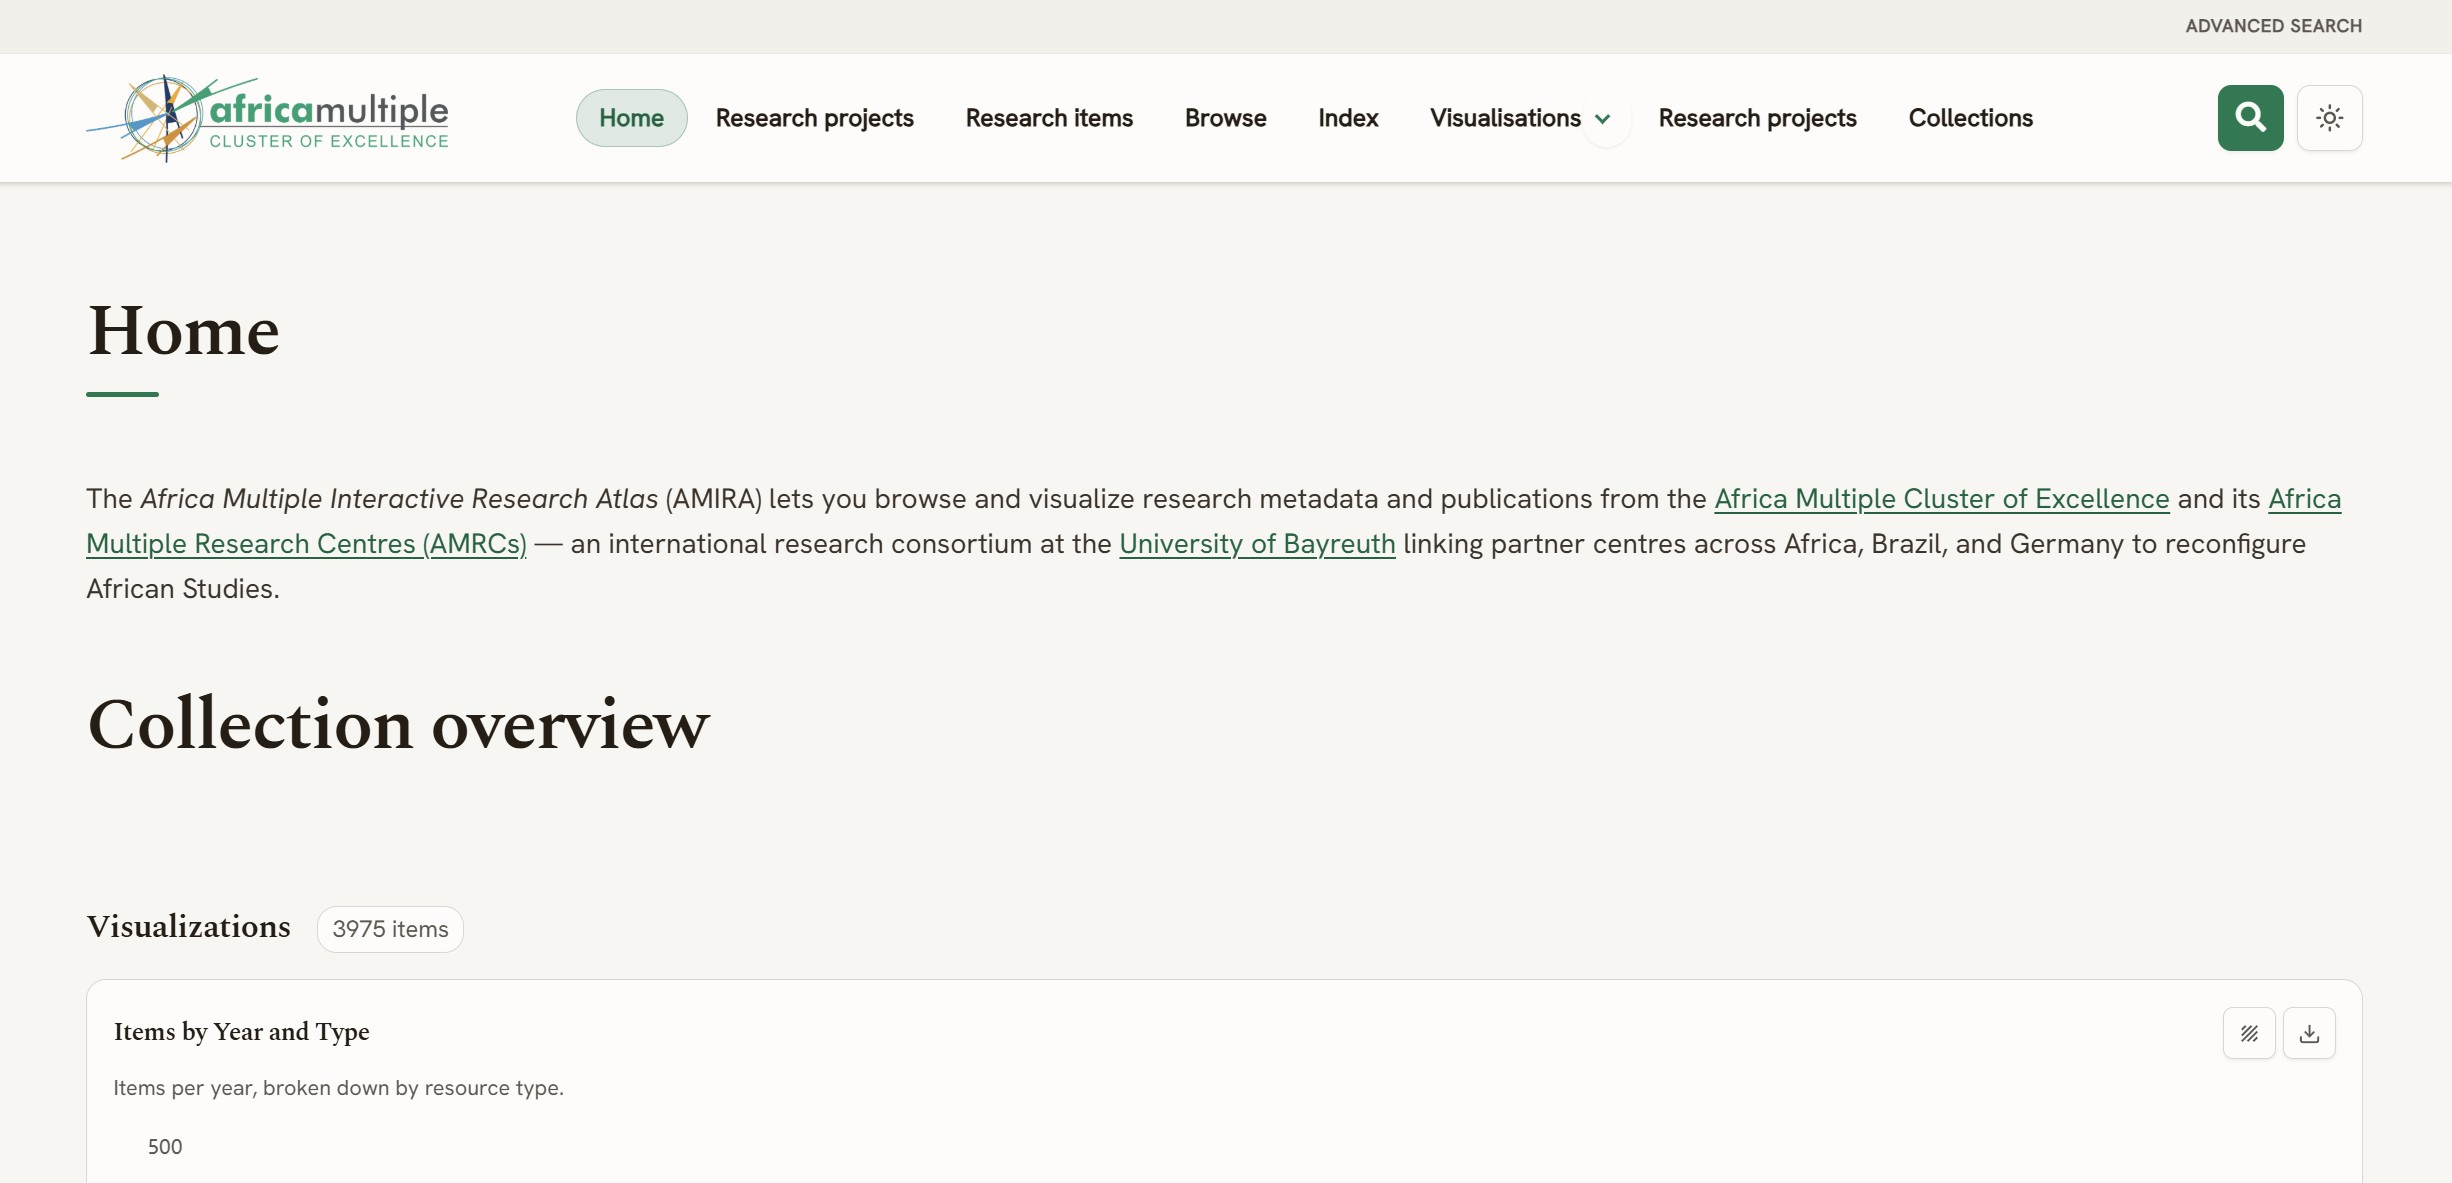
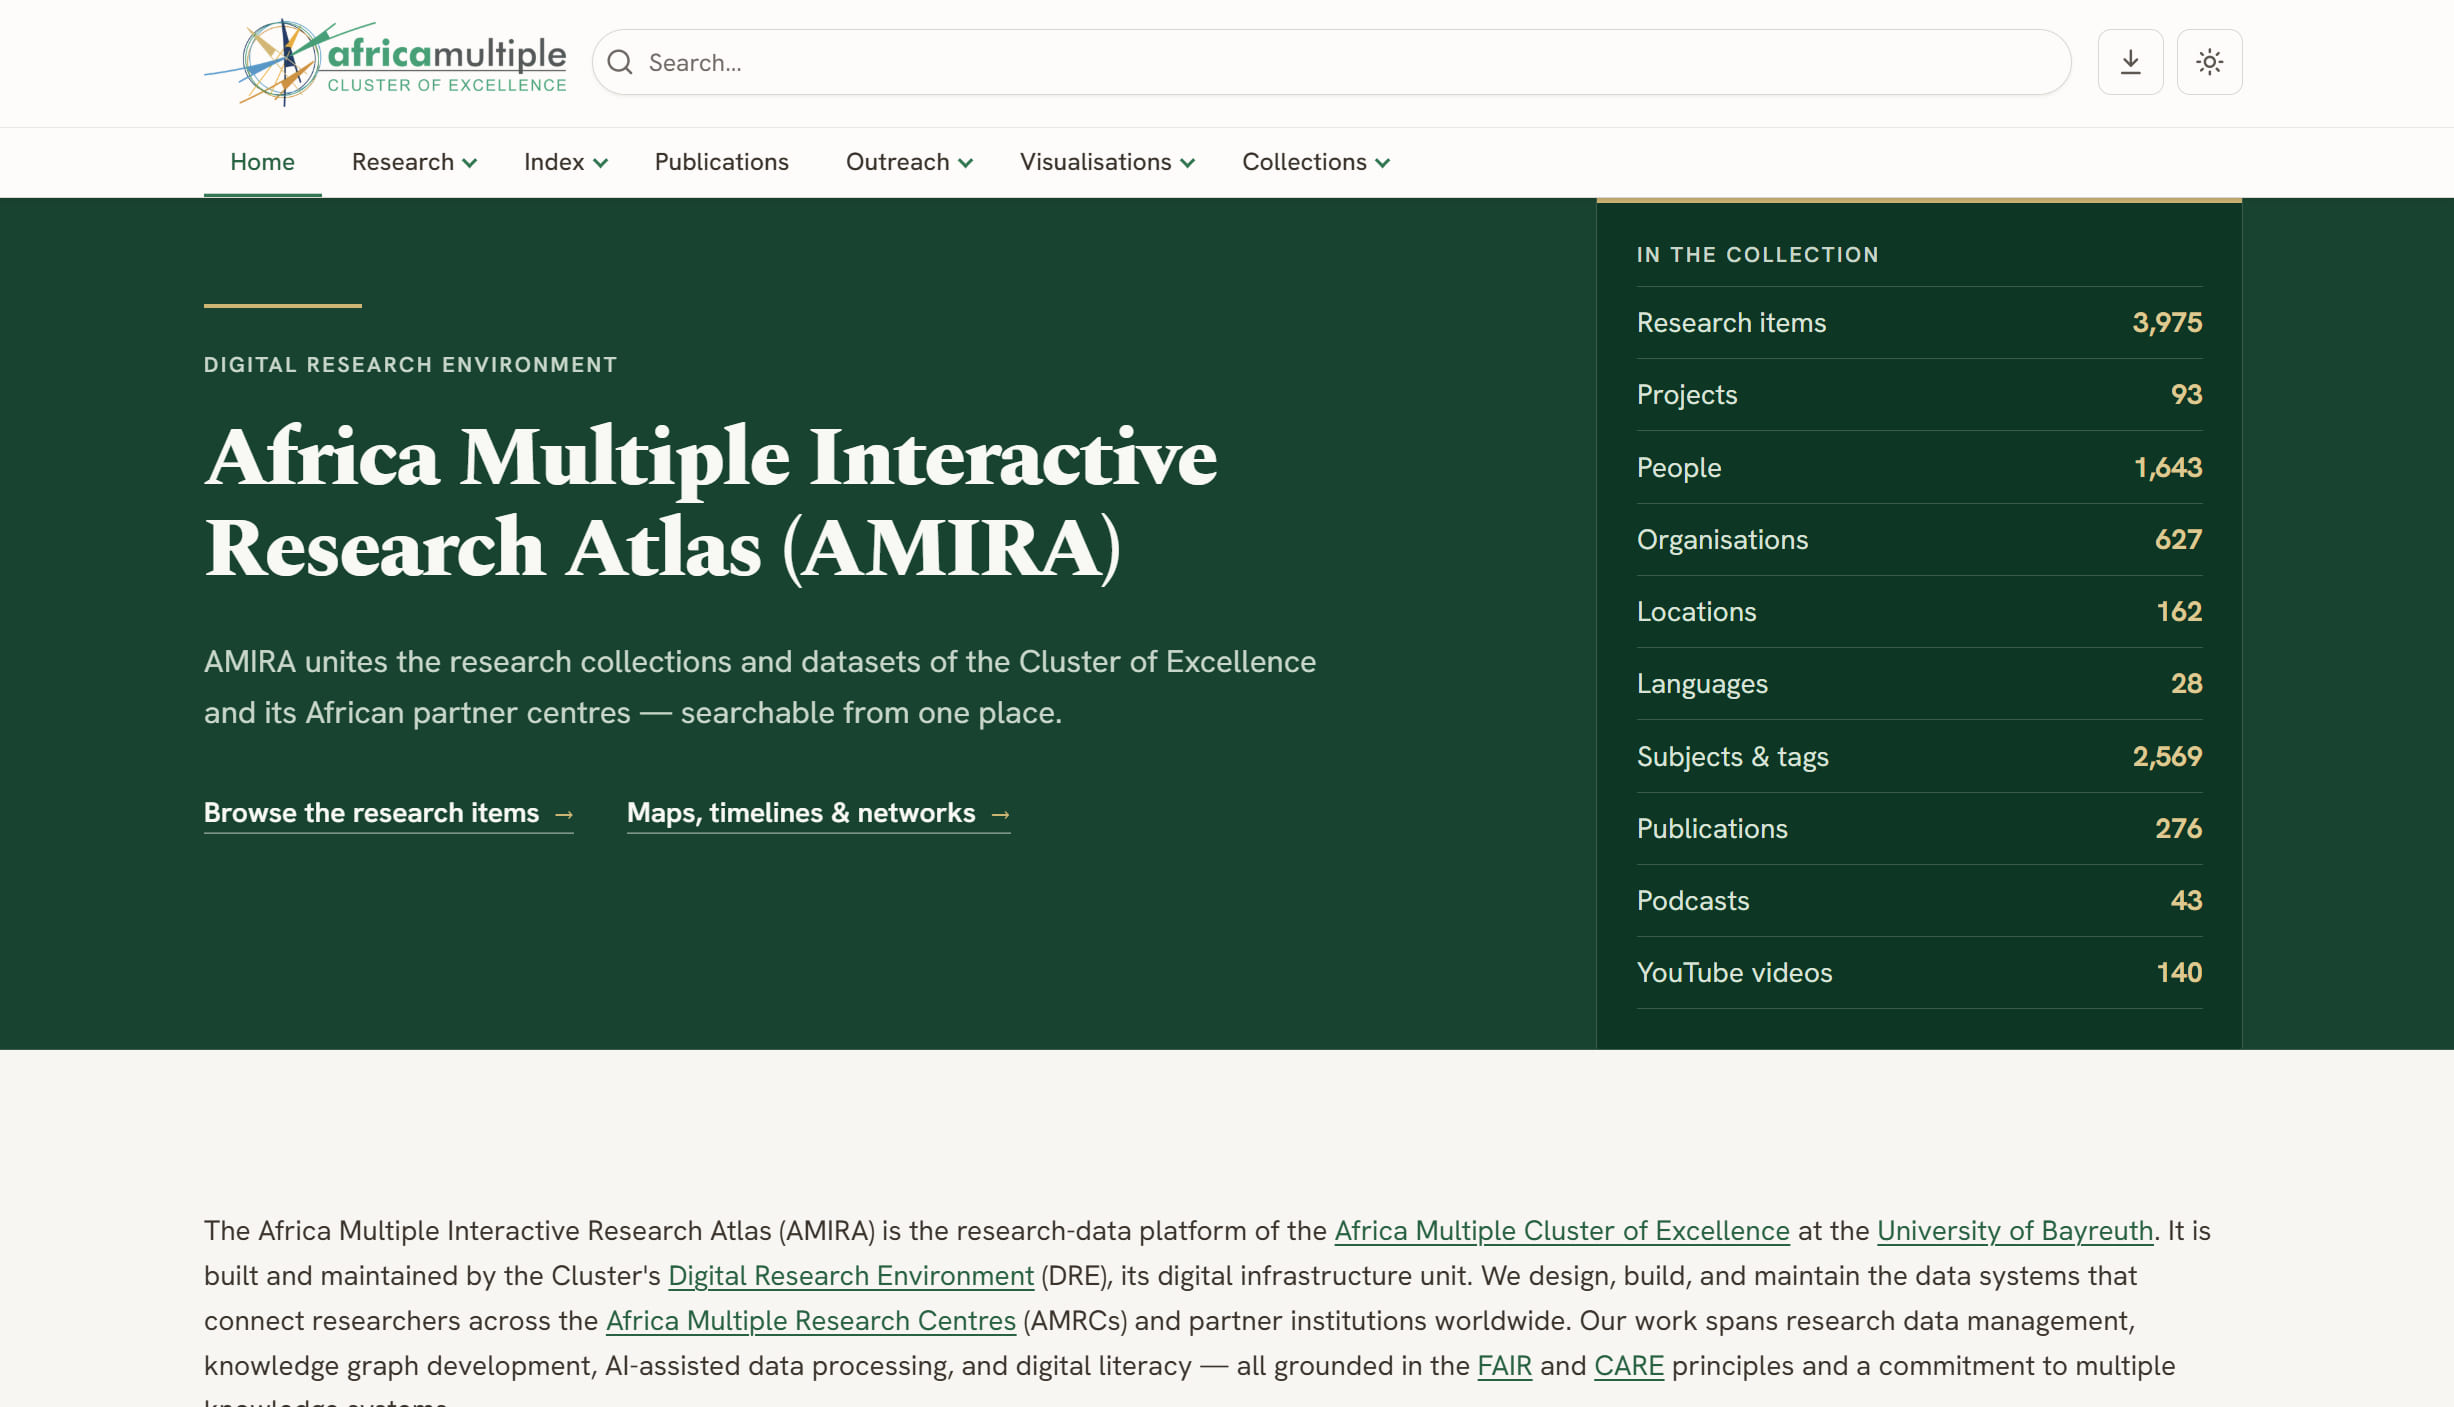
Repository metadata: a composer manifest, a social preview, a current thumbnail
composer.json carried four keys. It now has the keywords, homepage, authors and
support links Composer and Packagist read, which is what a `type: omeka-s-theme`
package is for.

theme.jpg was captured at v2.0.3 on 2 June and shows a plain white home page
with no masthead at all — no gold flag, no deep plate, no catalogue column. It
is the picture Omeka shows an admin choosing a theme, and it had missed the
entire v2.22-v2.25 masthead work. Replaced with a current capture, cropped by
13px to remove the browser's scrollbar gutter (a flat #fcfcfc strip running the
full height regardless of what was behind it) and encoded without chroma
subsampling, which cream type and gold numerals on a saturated ground need.

.github/social-preview.png is the Open Graph card, to be uploaded under Settings
-> General -> Social preview. It is the masthead rather than a picture of it:
the same body[data-brand="bold"] plate tokens, the theme's own Spectral and
Hanken Grotesk faces, the brand flag, the sunken catalogue column, and the
lockup on the light plaque the footer already uses for full-colour marks over a
forest band. The source .html is checked in beside it; both are under .github/
and so are export-ignored from the release package.

Verified by re-rendering from the checked-in HTML at the checked-in paths and
comparing to the checked-in PNG: 1.7% of subpixels differ, all on glyph edges.

diff --git a/.github/social-preview.html b/.github/social-preview.html
@@ -1,0 +1,195 @@
+<!doctype html>
+<html lang="en">
+<head>
+<meta charset="utf-8">
+<title>DRE-theme social preview</title>
+<!--
+  Source for .github/social-preview.png — the repository's Open Graph card
+  (GitHub → Settings → General → Social preview, 1280×640).
+
+  It is the masthead: the same "bold" plate tokens from
+  asset/sass/abstracts/variables/_colors.scss, the theme's own Spectral and
+  Hanken Grotesk faces, the brand flag, the sunken catalogue column, and the
+  lockup on the light plaque the footer uses for marks over a forest band.
+  Restate a token here only if the theme changed it.
+
+  To re-render, from the repository root:
+
+    npx serve . -l 8931          # or: python -m http.server 8931
+    npx playwright screenshot       --viewport-size=1280,640 --device-scale-factor=2 --wait-for-timeout=2000       http://127.0.0.1:8931/.github/social-preview.html raw.png
+    npx sharp-cli -i raw.png -o .github/social-preview.png resize 1280 640
+
+  The catalogue column states support ranges (Omeka S, PHP) — check them against
+  config/theme.ini and .github/workflows/ci.yml before regenerating.
+-->
+<style>
+  @font-face { font-family: "Spectral"; src: url("../asset/fonts/spectral-latin-800-normal.woff2") format("woff2"); font-weight: 800; font-style: normal; font-display: block; }
+  @font-face { font-family: "Hanken Grotesk"; src: url("../asset/fonts/hanken-grotesk-latin-400-normal.woff2") format("woff2"); font-weight: 400; font-style: normal; font-display: block; }
+  @font-face { font-family: "Hanken Grotesk"; src: url("../asset/fonts/hanken-grotesk-latin-600-normal.woff2") format("woff2"); font-weight: 600; font-style: normal; font-display: block; }
+  @font-face { font-family: "Hanken Grotesk"; src: url("../asset/fonts/hanken-grotesk-latin-700-normal.woff2") format("woff2"); font-weight: 700; font-style: normal; font-display: block; }
+
+  /* The masthead's "bold" plate, token for token — see
+     asset/sass/abstracts/variables/_colors.scss, body[data-brand="bold"]. */
+  :root {
+    --masthead-bg:       oklch(34% 0.075 165);
+    --masthead-ink:      oklch(98% 0.008 120);
+    --masthead-ink-soft: oklch(86% 0.030 150);
+    --masthead-rule:     oklch(78% 0.10 88);
+    --masthead-hair:     oklch(44% 0.055 165);
+    --masthead-sunken:   oklch(29.5% 0.07 165);
+    --numeral:           oklch(84% 0.085 88);
+    --entry-label:       color-mix(in oklab, var(--masthead-ink) 35%, var(--masthead-ink-soft));
+    /* The system's one deliberately mode-independent ground — the footer puts
+       the full-colour institutional marks on it so they stay legible over the
+       forest band. Same problem here, same answer. */
+    --plaque-bg:         oklch(99% 0.004 95);
+    --border-light:      oklch(93% 0.007 85);
+  }
+
+  * { box-sizing: border-box; }
+  html, body { margin: 0; padding: 0; }
+
+  body {
+    width: 1280px;
+    height: 640px;
+    overflow: hidden;
+    background-color: var(--masthead-bg);
+    font-family: "Hanken Grotesk", system-ui, sans-serif;
+    -webkit-font-smoothing: antialiased;
+  }
+
+  .plate {
+    width: 1280px;
+    height: 640px;
+    display: flex;
+    flex-direction: column;
+    padding: 56px 72px 44px;
+  }
+
+  .masthead { flex: 1; display: flex; align-items: flex-start; gap: 72px; min-height: 0; }
+
+  .headline { flex: 1; min-width: 0; }
+
+  /* The brand flag — a short 3px rule that opens the masthead. */
+  .flag { width: 96px; height: 3px; background-color: var(--masthead-rule); }
+
+  .eyebrow {
+    margin: 28px 0 0;
+    font-size: 15px;
+    font-weight: 600;
+    letter-spacing: 0.12em;
+    text-transform: uppercase;
+    color: var(--masthead-ink-soft);
+  }
+
+  .title {
+    margin: 20px 0 0;
+    font-family: "Spectral", Georgia, serif;
+    font-weight: 800;
+    font-size: 88px;
+    line-height: 1.08;
+    letter-spacing: -0.02em;
+    color: var(--masthead-ink);
+  }
+
+  .lede {
+    margin: 30px 0 0;
+    max-width: 648px;
+    font-size: 24px;
+    line-height: 1.55;
+    color: var(--masthead-ink-soft);
+  }
+
+  .colophon {
+    flex: none;
+    display: flex;
+    align-items: center;
+    justify-content: space-between;
+    gap: 40px;
+    margin-top: 44px;
+    padding-top: 26px;
+    border-top: 1px solid var(--masthead-hair);
+  }
+  .plaque {
+    display: inline-flex;
+    align-items: center;
+    justify-content: center;
+    padding: 12px 18px;
+    background-color: var(--plaque-bg);
+    border: 1px solid var(--border-light);
+    border-radius: 8px;
+  }
+  .plaque img { height: 44px; width: auto; display: block; }
+  .repo {
+    font-size: 18px;
+    font-weight: 600;
+    letter-spacing: 0.01em;
+    color: var(--masthead-ink-soft);
+  }
+
+  /* The catalogue column: a sunken panel, one step DOWN from the band. */
+  .catalogue {
+    flex: none;
+    width: 372px;
+    background-color: var(--masthead-sunken);
+    border-radius: 12px;
+    padding: 32px 30px 34px;
+  }
+
+  .catalogue h2 {
+    margin: 0 0 14px;
+    font-size: 13px;
+    font-weight: 600;
+    letter-spacing: 0.12em;
+    text-transform: uppercase;
+    color: var(--masthead-ink-soft);
+  }
+
+  .entry {
+    display: flex;
+    justify-content: space-between;
+    align-items: baseline;
+    gap: 16px;
+    padding: 12px 0;
+    border-top: 1px solid var(--masthead-hair);
+  }
+  .entry:last-child { border-bottom: 1px solid var(--masthead-hair); }
+
+  .entry-label { font-size: 20px; color: var(--entry-label); }
+  .entry-num {
+    flex: none;
+    font-size: 20px;
+    font-weight: 700;
+    font-variant-numeric: tabular-nums;
+    color: var(--numeral);
+  }
+</style>
+</head>
+<body>
+  <div class="plate">
+    <div class="masthead">
+      <div class="headline">
+      <div class="flag"></div>
+      <p class="eyebrow">Omeka&nbsp;S theme · Africa Multiple Cluster of Excellence</p>
+      <h1 class="title">Digital Research Environment</h1>
+      <p class="lede">A “Scholarly Modernism” design system on an OKLCH token foundation — first-class light and dark, with WCAG&nbsp;AA asserted by the build.</p>
+      </div>
+
+      <div class="catalogue">
+      <h2>In the theme</h2>
+      <div class="entry"><span class="entry-label">Colour schemes</span><span class="entry-num">2</span></div>
+      <div class="entry"><span class="entry-label">Contrast floor</span><span class="entry-num">AA</span></div>
+      <div class="entry"><span class="entry-label">Design tokens</span><span class="entry-num">OKLCH</span></div>
+      <div class="entry"><span class="entry-label">Omeka S</span><span class="entry-num">4.2.1+</span></div>
+      <div class="entry"><span class="entry-label">PHP</span><span class="entry-num">8.1–8.5</span></div>
+        <div class="entry"><span class="entry-label">Licence</span><span class="entry-num">GPLv3</span></div>
+      </div>
+    </div>
+
+    <div class="colophon">
+      <span class="plaque"><img src="../asset/img/africamultiple.webp" alt=""></span>
+      <span class="repo">github.com/AM-Digital-Research-Environment/DRE-theme</span>
+    </div>
+  </div>
+</body>
+</html>
